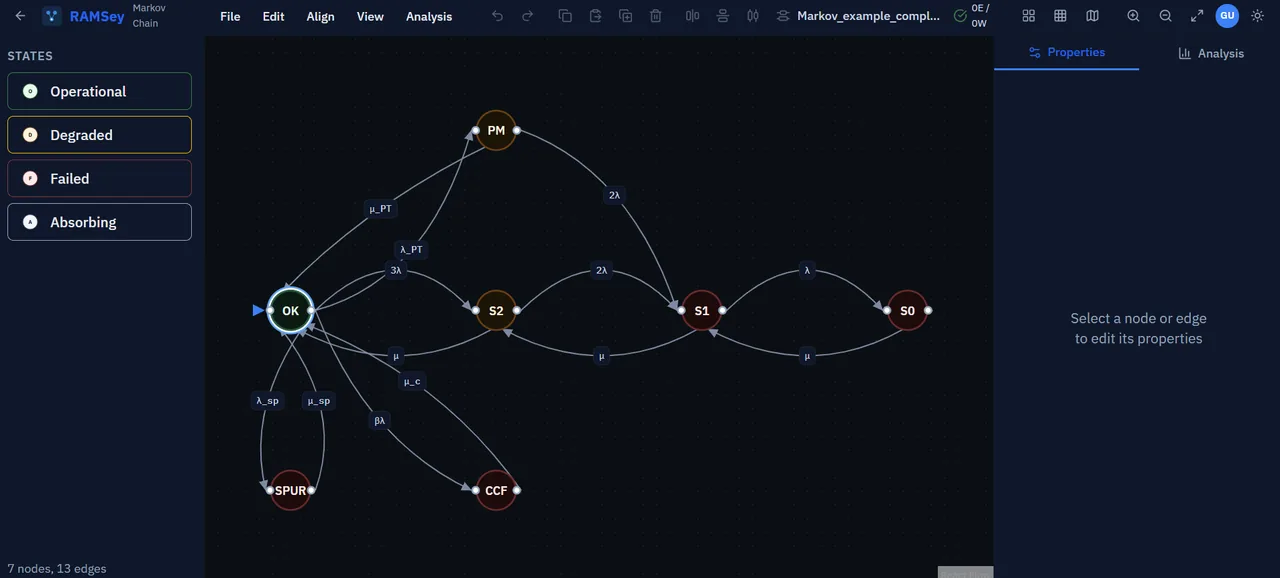
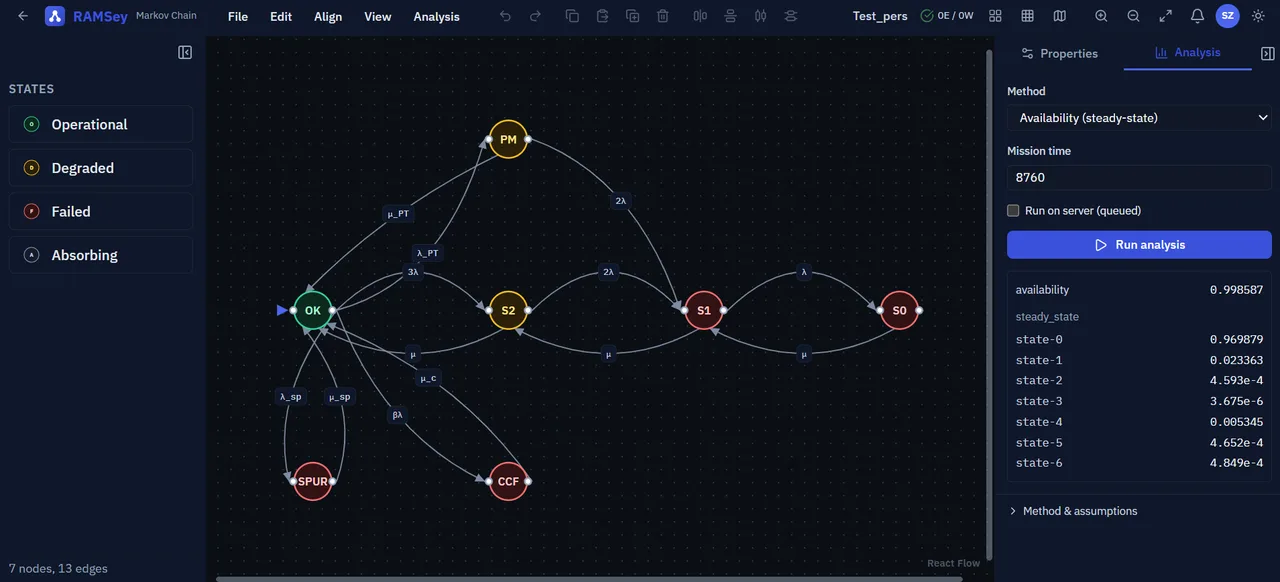
content: refresh GitAgents and RAMSey preview screenshots

diff --git a/src/content/doors.data.ts b/src/content/doors.data.ts
@@ -95,7 +95,7 @@ export const doors: readonly Door[] = [
         stack: ['TypeScript', 'Node.js', 'Claude API', 'GitLab CI / GitHub Actions', 'Postgres'],
         preview: {
           src: '/previews/gitagents.webp',
-          alt: 'GitAgents cost dashboard: per-run token spend, slowest actions, and agent telemetry',
+          alt: 'GitAgents review bot posting an inline pull-request comment flagging a possible null dereference',
         },
       },
       { kind: 'projectCard',
@@ -107,7 +107,7 @@ export const doors: readonly Door[] = [
         stack: ['TypeScript', 'React', 'Fastify', 'Postgres', 'Redis', 'Yjs', 'AWS'],
         preview: {
           src: '/previews/ramsey.webp',
-          alt: 'RAMSey collaborative diagram editor preview',
+          alt: 'RAMSey editor showing a Markov chain diagram alongside a steady-state availability analysis panel',
         },
       },
 